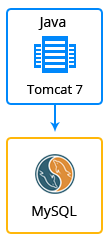
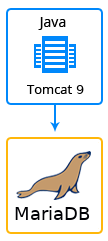
JE-58511 Readme, descriptions and pictures updated

Changed region(s): [[0.1389, 0.61, 0.8611, 0.9295], [0.6944, 0.3485, 0.7778, 0.4066]]

diff --git a/README.md b/README.md
@@ -1,15 +1,15 @@
-[![OpenCMS](images/logo_opencms.gif)](../../../opencms)
+[![OpenCms](images/logo_opencms.gif)](../../../opencms)
 
-## OpenCMS
+## OpenCms
 
-The JPS package deploys [OpenCMS](http://www.opencms.org/) that initially contains 1 application server and 1 database container. 
+The JPS package deploys [OpenCms](http://www.opencms.org/) that initially contains 1 application server and 1 database container. 
 
 ### Highlights
-This package is designed to deploy OpenCMS environment is a professional, easy to use website content management system from Alkacon Software.<br />
+This package is designed to deploy OpenCms environment is a professional, easy to use website content management system from Alkacon Software.<br />
 OpenCMS helps content managers worldwide to create and maintain beautiful websites fast and efficiently.<br />
 The fully browser based user interface features configurable editors for structured content with well defined fields. Alternatively, content can be created using an integrated WYSIWYG editor similar to well known office applications. A sophisticated template engine enforces a site-wide corporate layout and W3C standard compliance for all content.
 
-OpenCms is based on Java and XML technology. It can be deployed in an open source environment (e.g. Linux, Apache, Tomcat, MySQL) as well as on commercial components (e.g.  Windows NT, IIS, BEA Weblogic, Oracle).
+OpenCms is based on Java and XML technology. It can be deployed in an open source environment (e.g. Linux, Apache, Tomcat, MariaDB) as well as on commercial components (e.g.  Windows NT, IIS, BEA Weblogic, Oracle).
 
 ### Environment Topology
 
@@ -19,21 +19,21 @@ OpenCms is based on Java and XML technology. It can be deployed in an open sourc
 
 Layer                |     Server    | Number of CTs <br/> by default | Cloudlets per CT <br/> (reserved/dynamic) | Options
 -------------------- | --------------| :----------------------------: | :---------------------------------------: | :-----:
-AS                   | Tomcat Java |       1                        |           1 / 16                          | -
-DB                   |    MySQL      |       1                        |           1 / 16                           | -
+AS                   | Tomcat Java |       1                        |           1 / 32                          | -
+DB                   |    MariaDB      |       1                        |           1 / 8                           | -
 
 * AS - Application server 
 * DB - Database 
 * CT - Container
 
-**OpenCMS Version**: 9.5.2<br/>
-**Tomcat Version**: 7.0.67<br/>
-**Java Engine**: Java 7<br/>
-**MySQL Database**: 5.7.12
+**OpenCms Version**: 11.0.2<br/>
+**Tomcat Version**: 9<br/>
+**Java Engine Version**: 11<br/>
+**MariaDB Database Version**: 10
 
 ### Deployment
 
-In order to get this solution instantly deployed, click the "Get It Hosted Now" button, specify your email address within the widget, choose one of the [Jelastic Public Cloud providers](https://jelastic.cloud) and press Install.
+In order to get this solution instantly deployed, click the "DEPLOY TO JELASTIC" button, specify your email address within the widget, choose one of the [Jelastic Public Cloud providers](https://jelastic.cloud) and press Install.
 
 [![GET IT HOSTED](https://raw.githubusercontent.com/jelastic-jps/jpswiki/master/images/getithosted.png)](https://jelastic.com/install-application/?manifest=https%3A%2F%2Fgithub.com%2Fjelastic-jps%2Fopencms%2Fraw%2Fmaster%2Fmanifest.jps)
 

diff --git a/text/success-email.md b/text/success-email.md
@@ -1,13 +1,13 @@
-OpenCMS has been installed!
+OpenCms has been installed!
 
-Login with these details:
+Login with credentials:
 
 **Admin Panel**: [https://${env.domain}/login](https://${env.domain}/login)  
 **Username**: Admin  
 **Password**: admin
 
-Please make sure to change the Password directly after the login.
+Please change the Password right after the login.
 
-The Launchpad for the Management (after login) is found here:[https://${env.domain}/workplace#!launchpad](https://${env.domain}/workplace#!launchpad)  
+The Launchpad for the Management: [https://${env.domain}/workplace#!launchpad](https://${env.domain}/workplace#!launchpad)  
 
-You can find OpenCMS documentation here: https://documentation.opencms.org/central/
+You can find OpenCms documentation here: https://documentation.opencms.org/central/

diff --git a/text/success-text.md b/text/success-text.md
@@ -1,6 +1,6 @@
-OpenCMS has been installed!
+OpenCms has been installed!
 
-Login with these details:
+Login with credentials:
 
 **Admin Panel**: [https://${env.domain}/login](https://${env.domain}/login)  
 **Username**: Admin  
